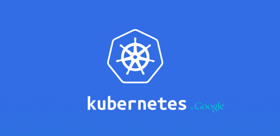
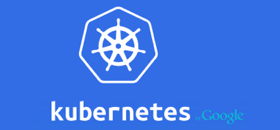
Update of image to make it work with linkedin link size

Changed region(s): [[0.1714, 0.7077, 0.8857, 0.9538], [0.2571, 0.0308, 0.6, 0.6462]]

diff --git a/flexiant_concerto_spark_linkedin_link.html b/flexiant_concerto_spark_linkedin_link.html
@@ -1,0 +1,6 @@
+<html>
+<meta property="og:title" content="Elastic Spark Orchestration as a Service" />
+<meta property="og:description" content="Apache Spark is a Big Data open source projects designed to handle large scale data processing, running programs up to 100 times faster than Hadoop’s MapReduce when run in memory. How Flexiant Concerto enables to create at ease a Spark cluster across multiple clouds. Allowing scientist to concentrate in their real work instead of deploying clusters." />
+<meta property="og:image" content="http://jpgriffo.github.io/images/spark.png"" />
+<meta http-equiv="refresh" content="0; url=https://www.flexiant.com/2015/07/31/how-to-use-spark-across-any-cloud-with-flexiant-concerto/">
+</html>
